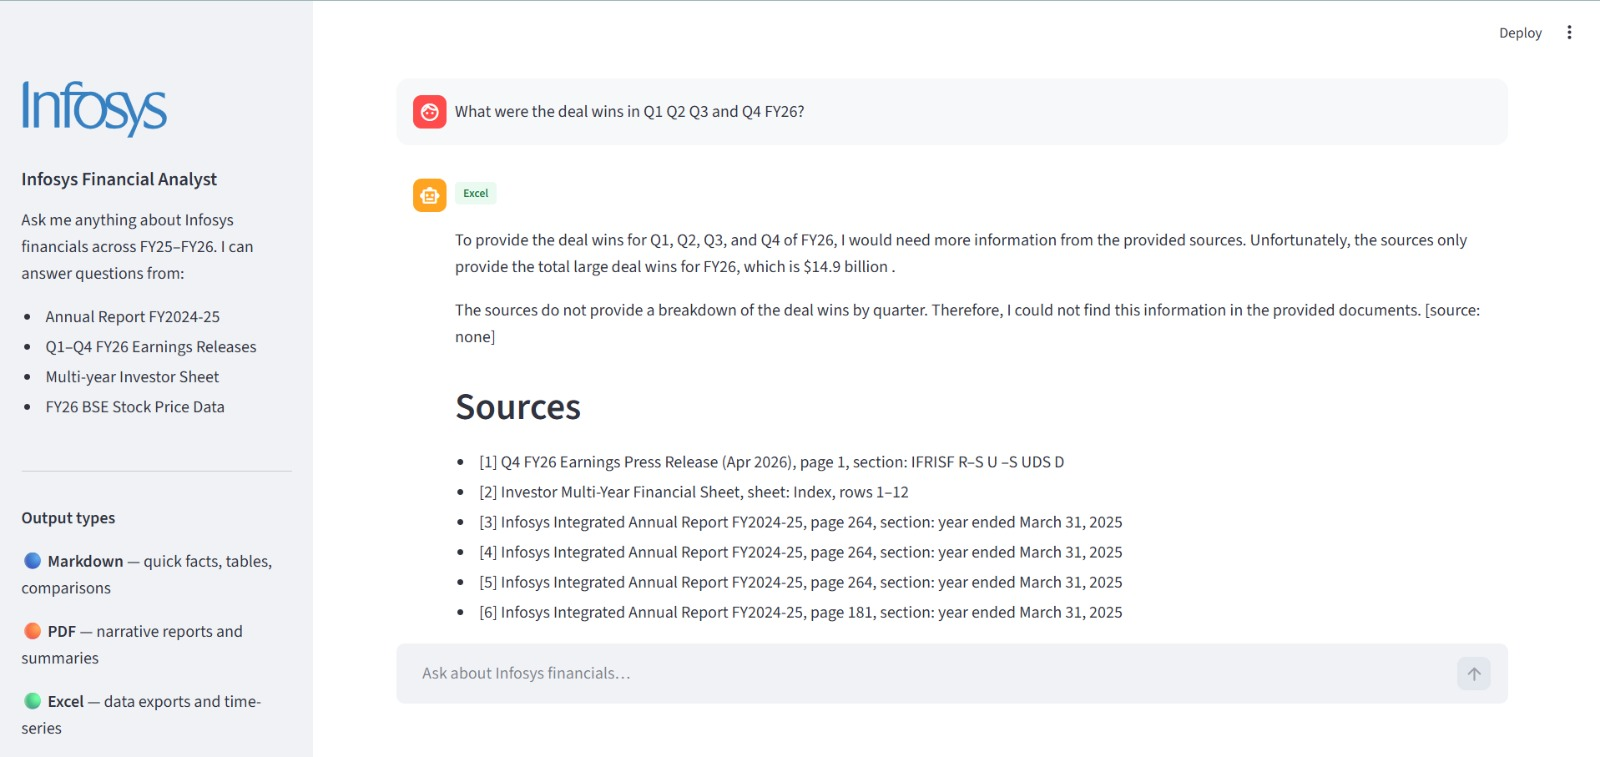
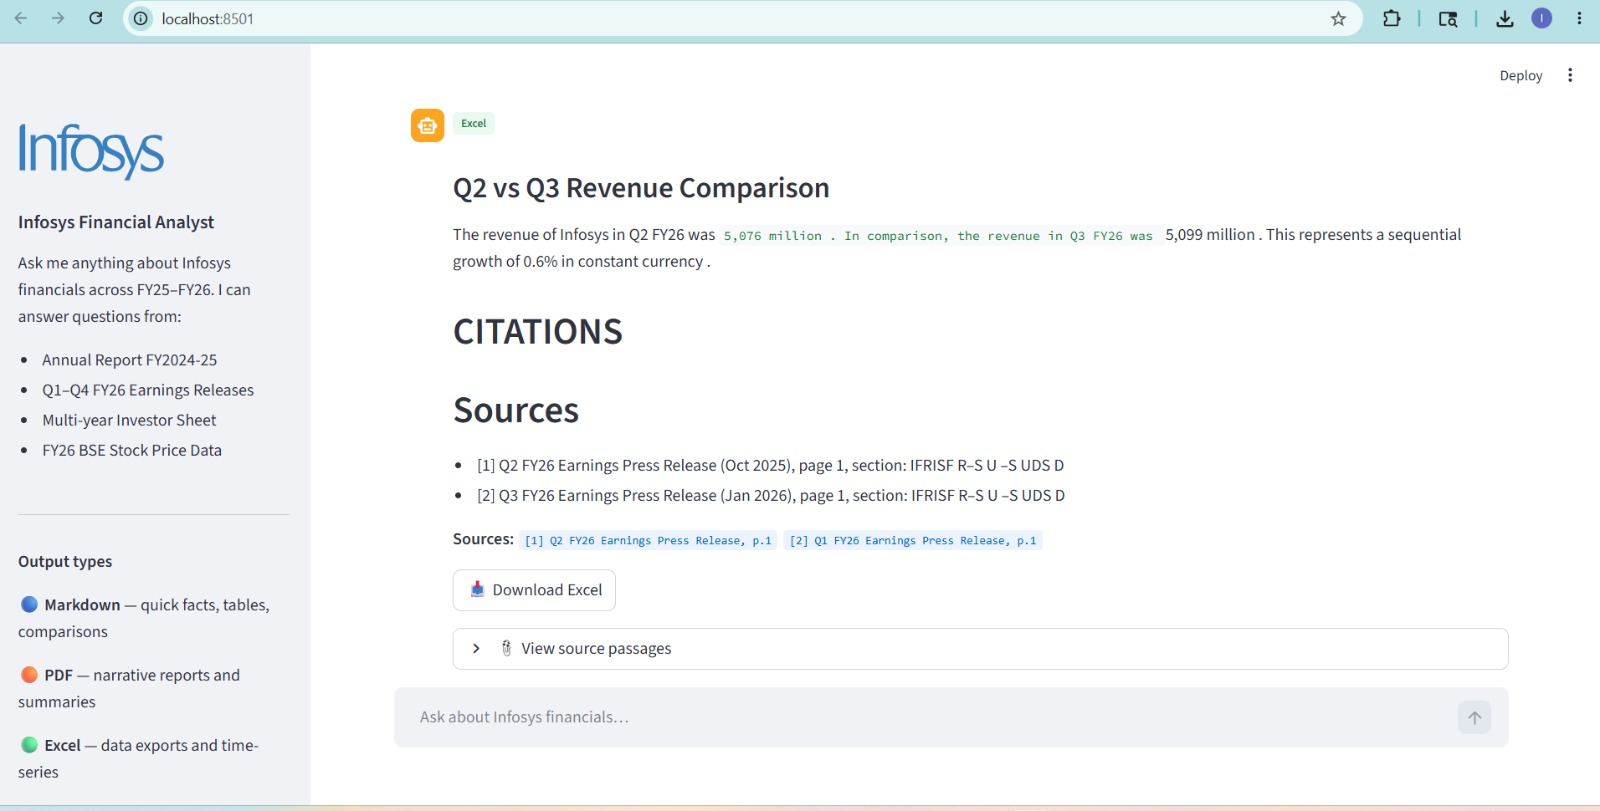
added excel test results and demo video

diff --git a/formatters.py b/formatters.py
@@ -377,18 +377,45 @@ Answer to extract from:
 def _extract_excel_data(answer: str) -> list[dict]:
     """Ask Groq to extract structured tables from the markdown answer."""
     prompt = EXCEL_EXTRACTION_PROMPT.format(answer=answer)
-    _client = Groq(api_key=os.environ["GROQ_API_KEY"])
-    response = _client.chat.completions.create(
-        model="llama-3.3-70b-versatile",
-        messages=[{"role": "user", "content": prompt}],
-        temperature=0,
-        max_tokens=2048,
-    )
-    raw = response.choices[0].message.content.strip()
-    raw = re.sub(r"^```(?:json)?", "", raw, flags=re.MULTILINE).strip()
-    raw = re.sub(r"```$", "", raw, flags=re.MULTILINE).strip()
-    data = json.loads(raw)
-    return data.get("sheets", [])
+    try:
+        _client = Groq(api_key=os.environ["GROQ_API_KEY"])
+        response = _client.chat.completions.create(
+            model="llama-3.3-70b-versatile",
+            messages=[{"role": "user", "content": prompt}],
+            temperature=0,
+            max_tokens=2048,
+        )
+        raw = response.choices[0].message.content.strip()
+        raw = re.sub(r"^```(?:json)?", "", raw, flags=re.MULTILINE).strip()
+        raw = re.sub(r"```$", "", raw, flags=re.MULTILINE).strip()
+        # Find the first { and last } to extract just the JSON object
+        start = raw.find("{")
+        end = raw.rfind("}") + 1
+        if start == -1 or end == 0:
+            raise ValueError("No JSON object found in response")
+        raw = raw[start:end]
+        data = json.loads(raw)
+        return data.get("sheets", [])
+    except Exception as e:
+        print(f"Excel extraction failed: {e}")
+        # Fallback: parse markdown table from answer directly
+        sheets = []
+        lines = answer.split("\n")
+        table_lines = [l for l in lines if l.strip().startswith("|")]
+        if table_lines:
+            headers = [c.strip() for c in table_lines[0].strip("|").split("|")]
+            rows = []
+            for line in table_lines[2:]:  # skip header and separator
+                cells = [c.strip() for c in line.strip("|").split("|")]
+                if cells:
+                    rows.append(cells)
+            sheets.append({
+                "name": "Data",
+                "description": "Extracted from answer",
+                "headers": headers,
+                "rows": rows,
+            })
+        return sheets
 
 
 def _style_header_row(ws, header_row_num: int, col_count: int) -> None: